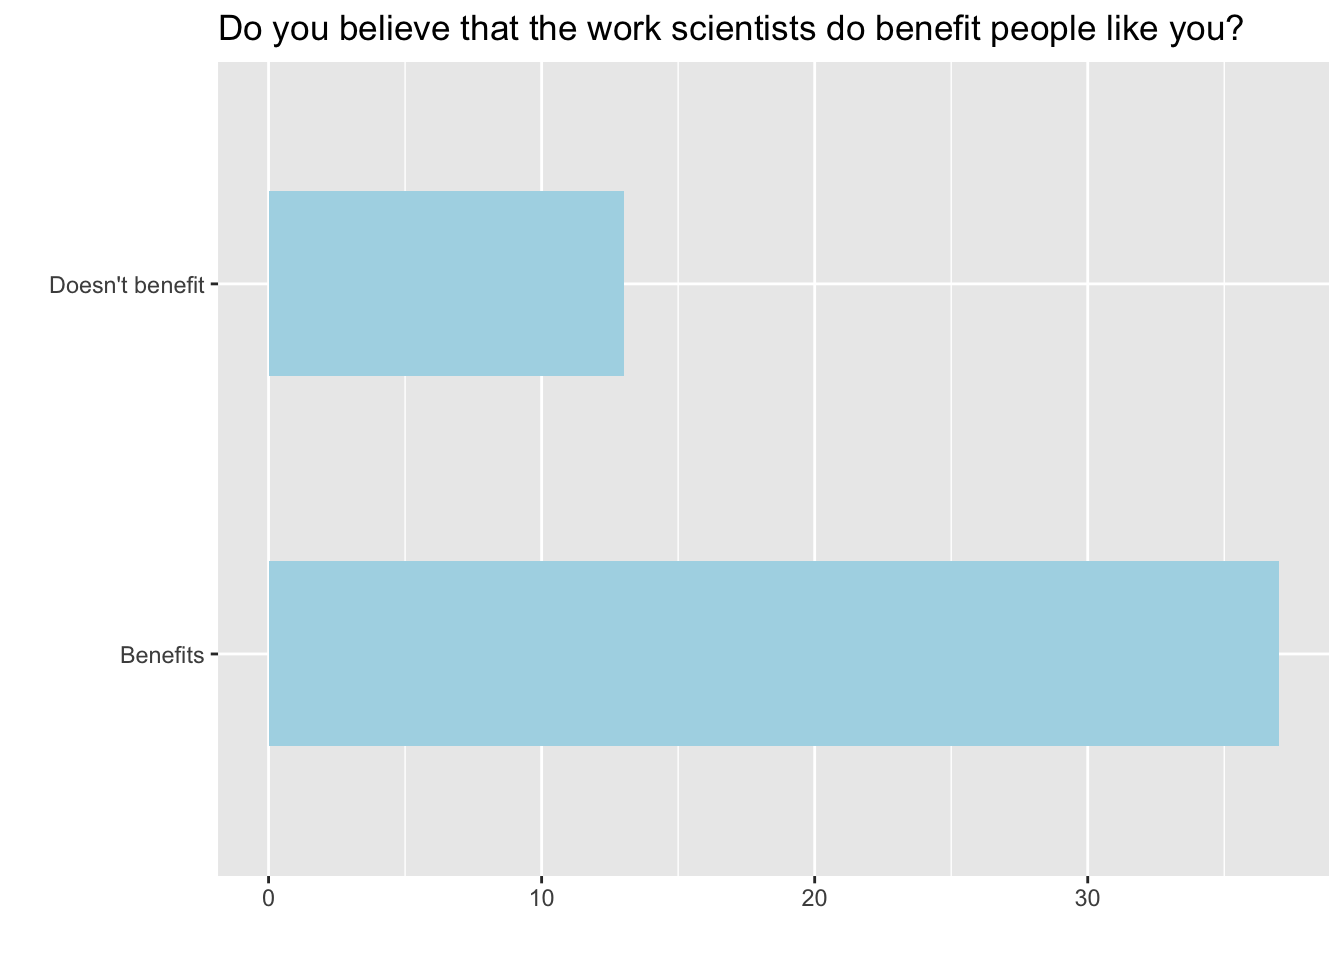
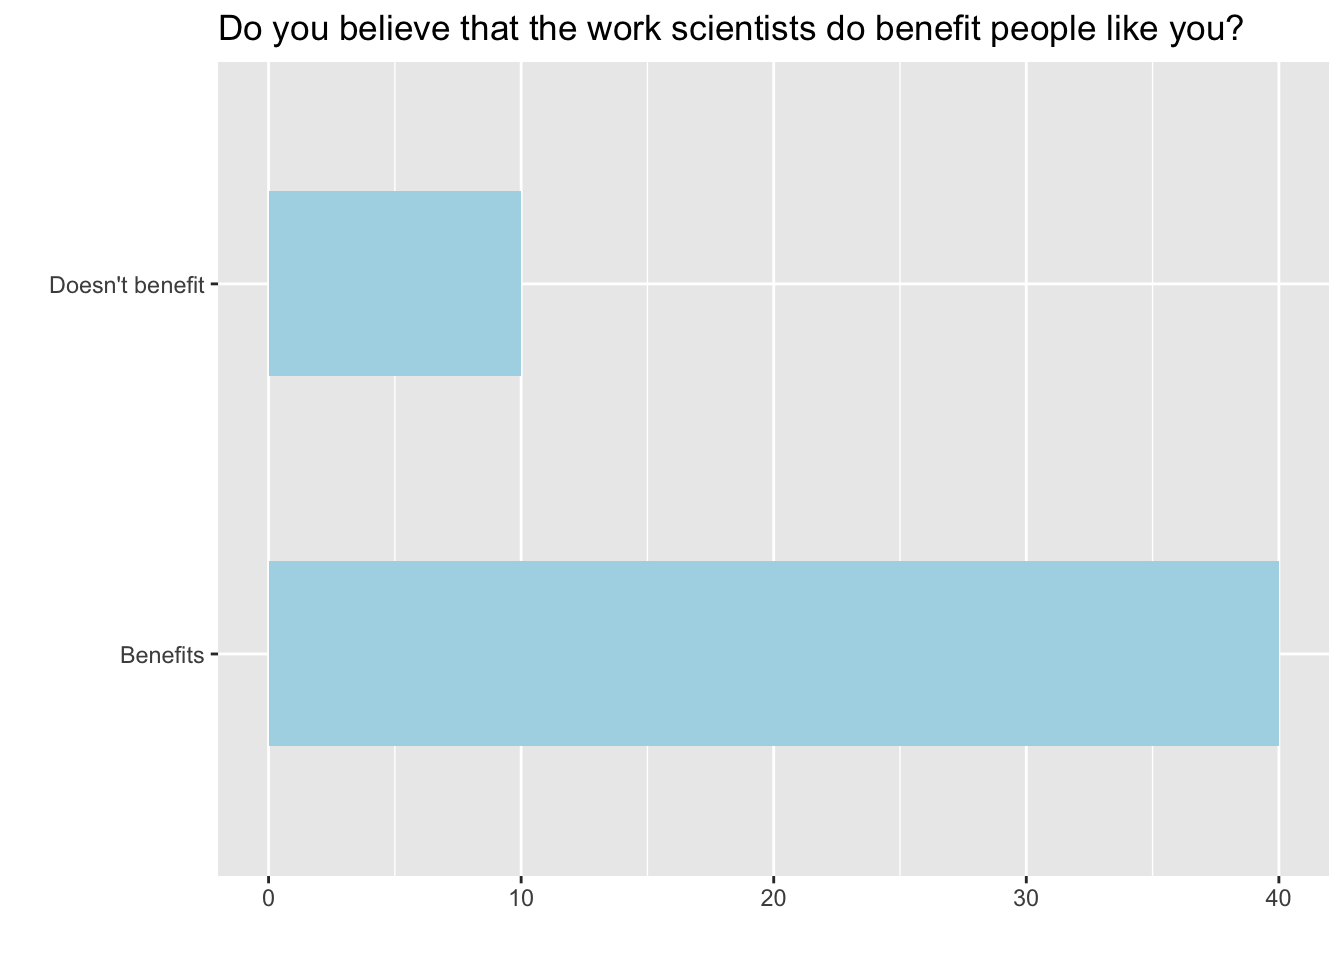
Typo correction

diff --git a/docs/S1YLab4/part-1---sampling-distributions.html b/docs/S1YLab4/part-1---sampling-distributions.html
@@ -220,8 +220,8 @@ We will first create our population assuming a population size of 100,000 (which
 <p>The name of the data frame is <code>global_monitor</code> and the name of the variable that contains responses to the question <em>"Do you believe that the work scientists do benefit people like you?"</em> is <code>scientist_work</code>.</p>
 <p><br></p>
 <p><strong>What would this line of code return? <code>c(rep(x, 1000), rep(y, 500))</code></strong></p>
-<div id="radio_QUHAQOCTPK" class="webex-radiogroup">
-<label><input type="radio" autocomplete="off" name="radio_QUHAQOCTPK" value=""></input> <span>matrix with 1000 rows of x and 500 columns of y</span></label><label><input type="radio" autocomplete="off" name="radio_QUHAQOCTPK" value=""></input> <span>vector of length 1000 all x</span></label><label><input type="radio" autocomplete="off" name="radio_QUHAQOCTPK" value="answer"></input> <span>vector of length 1500 with 1000 values of x and 500 values of y</span></label><label><input type="radio" autocomplete="off" name="radio_QUHAQOCTPK" value=""></input> <span>vector of length 500 all y</span></label>
+<div id="radio_XXRSHHCCMW" class="webex-radiogroup">
+<label><input type="radio" autocomplete="off" name="radio_XXRSHHCCMW" value="answer"></input> <span>vector of length 1500 with 1000 values of x and 500 values of y</span></label><label><input type="radio" autocomplete="off" name="radio_XXRSHHCCMW" value=""></input> <span>vector of length 1000 all x</span></label><label><input type="radio" autocomplete="off" name="radio_XXRSHHCCMW" value=""></input> <span>vector of length 500 all y</span></label><label><input type="radio" autocomplete="off" name="radio_XXRSHHCCMW" value=""></input> <span>matrix with 1000 rows of x and 500 columns of y</span></label>
 </div>
 <div class="webex-solution">
 <button>
@@ -273,8 +273,8 @@ Solution
 <pre><code>## # A tibble: 2 × 3
 ##   scientist_work      n p_hat
 ##   &lt;chr&gt;           &lt;int&gt; &lt;dbl&gt;
-## 1 Benefits           37  0.74
-## 2 Doesn&#39;t benefit    13  0.26</code></pre>
+## 1 Benefits           40   0.8
+## 2 Doesn&#39;t benefit    10   0.2</code></pre>
 <div class="sourceCode" id="cb7"><pre class="sourceCode r"><code class="sourceCode r"><span id="cb7-1"><a href="part-1---sampling-distributions.html#cb7-1" tabindex="-1"></a><span class="fu">ggplot</span>(sample1, <span class="fu">aes</span>(<span class="at">x =</span> scientist_work)) <span class="sc">+</span> </span>
 <span id="cb7-2"><a href="part-1---sampling-distributions.html#cb7-2" tabindex="-1"></a>  <span class="fu">geom_bar</span>(<span class="at">fill =</span> <span class="st">&quot;lightblue&quot;</span>, <span class="at">width =</span> <span class="fl">0.5</span>) <span class="sc">+</span> </span>
 <span id="cb7-3"><a href="part-1---sampling-distributions.html#cb7-3" tabindex="-1"></a>  <span class="fu">labs</span>(<span class="at">x =</span> <span class="st">&quot;&quot;</span>, <span class="at">y =</span> <span class="st">&quot;&quot;</span>, <span class="at">title =</span> <span class="st">&quot;Do you believe that the work scientists do benefit people like you?&quot;</span> ) <span class="sc">+</span></span>
@@ -283,8 +283,8 @@ Solution
 </div>
 <p><br></p>
 <p><strong>Think about how the proportions in your sample compare with the distribution of the population. Would you expect the sample distribution to be?</strong></p>
-<div id="radio_HBULNBLLOS" class="webex-radiogroup">
-<label><input type="radio" autocomplete="off" name="radio_HBULNBLLOS" value="answer"></input> <span>Similar to the population distribution</span></label><label><input type="radio" autocomplete="off" name="radio_HBULNBLLOS" value=""></input> <span>Very different to the population distribution</span></label>
+<div id="radio_ORMCBJEWXO" class="webex-radiogroup">
+<label><input type="radio" autocomplete="off" name="radio_ORMCBJEWXO" value=""></input> <span>Very different to the population distribution</span></label><label><input type="radio" autocomplete="off" name="radio_ORMCBJEWXO" value="answer"></input> <span>Similar to the population distribution</span></label>
 </div>
 <div class="webex-solution">
 <button>
@@ -300,13 +300,13 @@ Hint
 <pre><code>## # A tibble: 2 × 3
 ##   scientist_work      n p_hat
 ##   &lt;chr&gt;           &lt;int&gt; &lt;dbl&gt;
-## 1 Benefits           37  0.74
-## 2 Doesn&#39;t benefit    13  0.26</code></pre>
+## 1 Benefits           40   0.8
+## 2 Doesn&#39;t benefit    10   0.2</code></pre>
 <p>Depending on the 50 people selected, your estimate could be a bit above or a bit below the population proportion of 0.2. In general, though, the sample proportion turns out to be a pretty good estimate of the true population proportion, and you were able to get it by sampling less than 1% of the population, 50 out of 100000.</p>
 <p><br></p>
 <p><strong>Would you expect the sample proportion to match the sample proportion of another student's sample?</strong></p>
-<div id="radio_DRFIIBXJYT" class="webex-radiogroup">
-<label><input type="radio" autocomplete="off" name="radio_DRFIIBXJYT" value="answer"></input> <span>Similar but not necessarily the same</span></label><label><input type="radio" autocomplete="off" name="radio_DRFIIBXJYT" value=""></input> <span>Completely different</span></label><label><input type="radio" autocomplete="off" name="radio_DRFIIBXJYT" value=""></input> <span>Exactly the same</span></label>
+<div id="radio_JJCSVPFRWD" class="webex-radiogroup">
+<label><input type="radio" autocomplete="off" name="radio_JJCSVPFRWD" value="answer"></input> <span>Similar but not necessarily the same</span></label><label><input type="radio" autocomplete="off" name="radio_JJCSVPFRWD" value=""></input> <span>Exactly the same</span></label><label><input type="radio" autocomplete="off" name="radio_JJCSVPFRWD" value=""></input> <span>Completely different</span></label>
 </div>
 <div class="webex-solution">
 <button>
@@ -338,8 +338,8 @@ Solution
 <pre><code>## # A tibble: 2 × 3
 ##   scientist_work      n p_hat
 ##   &lt;chr&gt;           &lt;int&gt; &lt;dbl&gt;
-## 1 Benefits           76  0.76
-## 2 Doesn&#39;t benefit    24  0.24</code></pre>
+## 1 Benefits           85  0.85
+## 2 Doesn&#39;t benefit    15  0.15</code></pre>
 <div class="sourceCode" id="cb12"><pre class="sourceCode r"><code class="sourceCode r"><span id="cb12-1"><a href="part-1---sampling-distributions.html#cb12-1" tabindex="-1"></a>sample3 <span class="ot">&lt;-</span> global_monitor <span class="sc">%&gt;%</span> </span>
 <span id="cb12-2"><a href="part-1---sampling-distributions.html#cb12-2" tabindex="-1"></a>  <span class="fu">sample_n</span>(<span class="dv">1000</span>)</span>
 <span id="cb12-3"><a href="part-1---sampling-distributions.html#cb12-3" tabindex="-1"></a></span>
@@ -349,13 +349,13 @@ Solution
 <pre><code>## # A tibble: 2 × 3
 ##   scientist_work      n p_hat
 ##   &lt;chr&gt;           &lt;int&gt; &lt;dbl&gt;
-## 1 Benefits          801 0.801
-## 2 Doesn&#39;t benefit   199 0.199</code></pre>
+## 1 Benefits          780  0.78
+## 2 Doesn&#39;t benefit   220  0.22</code></pre>
 </div>
 <p><br></p>
 <p><strong>Looking at the new samples, of size 100 and 1000. Which would you think would provide a more precise estimate of the population mean?</strong></p>
-<div id="radio_IABIVLDMJN" class="webex-radiogroup">
-<label><input type="radio" autocomplete="off" name="radio_IABIVLDMJN" value=""></input> <span>Sample size 50</span></label><label><input type="radio" autocomplete="off" name="radio_IABIVLDMJN" value=""></input> <span>Sample size 100</span></label><label><input type="radio" autocomplete="off" name="radio_IABIVLDMJN" value="answer"></input> <span>Sample size 1000</span></label>
+<div id="radio_WVNAERHWTP" class="webex-radiogroup">
+<label><input type="radio" autocomplete="off" name="radio_WVNAERHWTP" value=""></input> <span>Sample size 50</span></label><label><input type="radio" autocomplete="off" name="radio_WVNAERHWTP" value=""></input> <span>Sample size 100</span></label><label><input type="radio" autocomplete="off" name="radio_WVNAERHWTP" value="answer"></input> <span>Sample size 1000</span></label>
 </div>
 <div class="webex-solution">
 <button>
@@ -387,8 +387,8 @@ Hint
 <span id="cb14-12"><a href="part-1---sampling-distributions.html#cb14-12" tabindex="-1"></a>       <span class="at">subtitle =</span> <span class="st">&quot;Sample size = 50, Number of samples = 15000&quot;</span>)</span></code></pre></div>
 <p>If you would like to adjust the bin width of your histogram to show a little more detail, you can do so by changing the <code>binwidth</code> argument in <code>geom_histogram</code>.</p>
 <p><strong>What distribution does the shape of the histogram most resemble?</strong></p>
-<div id="radio_KNVDYZKFPL" class="webex-radiogroup">
-<label><input type="radio" autocomplete="off" name="radio_KNVDYZKFPL" value="answer"></input> <span>Normal</span></label><label><input type="radio" autocomplete="off" name="radio_KNVDYZKFPL" value=""></input> <span>Binomial</span></label><label><input type="radio" autocomplete="off" name="radio_KNVDYZKFPL" value=""></input> <span>Geometric</span></label><label><input type="radio" autocomplete="off" name="radio_KNVDYZKFPL" value=""></input> <span>Poisson</span></label>
+<div id="radio_CNVVPRJOSF" class="webex-radiogroup">
+<label><input type="radio" autocomplete="off" name="radio_CNVVPRJOSF" value=""></input> <span>Poisson</span></label><label><input type="radio" autocomplete="off" name="radio_CNVVPRJOSF" value=""></input> <span>Geometric</span></label><label><input type="radio" autocomplete="off" name="radio_CNVVPRJOSF" value=""></input> <span>Binomial</span></label><label><input type="radio" autocomplete="off" name="radio_CNVVPRJOSF" value="answer"></input> <span>Normal</span></label>
 </div>
 <div class="webex-solution">
 <button>
@@ -414,8 +414,8 @@ Hint
 <span id="cb15-11"><a href="part-1---sampling-distributions.html#cb15-11" tabindex="-1"></a>       <span class="at">subtitle =</span> <span class="st">&quot;Sample size = 50&quot;</span>)</span></code></pre></div>
 <p><br></p>
 <p><strong>Would you expect the distribution to significantly change if 50,000 samples were collected?</strong></p>
-<div id="radio_WHVMRMDQUG" class="webex-radiogroup">
-<label><input type="radio" autocomplete="off" name="radio_WHVMRMDQUG" value=""></input> <span>Yes</span></label><label><input type="radio" autocomplete="off" name="radio_WHVMRMDQUG" value="answer"></input> <span>No</span></label>
+<div id="radio_YOWYHWQUZI" class="webex-radiogroup">
+<label><input type="radio" autocomplete="off" name="radio_YOWYHWQUZI" value=""></input> <span>Yes</span></label><label><input type="radio" autocomplete="off" name="radio_YOWYHWQUZI" value="answer"></input> <span>No</span></label>
 </div>
 <div class="webex-solution">
 <button>
@@ -492,8 +492,8 @@ Solution
 </div>
 <p><br></p>
 <p><strong>When the sample size is larger, what happens to the center?</strong></p>
-<div id="radio_UOYZCMLVRJ" class="webex-radiogroup">
-<label><input type="radio" autocomplete="off" name="radio_UOYZCMLVRJ" value=""></input> <span>Increases</span></label><label><input type="radio" autocomplete="off" name="radio_UOYZCMLVRJ" value=""></input> <span>Decreases</span></label><label><input type="radio" autocomplete="off" name="radio_UOYZCMLVRJ" value="answer"></input> <span>Stays constant</span></label>
+<div id="radio_JXEUNPCUAC" class="webex-radiogroup">
+<label><input type="radio" autocomplete="off" name="radio_JXEUNPCUAC" value=""></input> <span>Increases</span></label><label><input type="radio" autocomplete="off" name="radio_JXEUNPCUAC" value=""></input> <span>Decreases</span></label><label><input type="radio" autocomplete="off" name="radio_JXEUNPCUAC" value="answer"></input> <span>Stays constant</span></label>
 </div>
 <div class="webex-solution">
 <button>
@@ -503,8 +503,8 @@ Hint
 </div>
 <p><br></p>
 <p><strong>When the sample size is larger, what happens to the spread?</strong></p>
-<div id="radio_FIPCUUUJEC" class="webex-radiogroup">
-<label><input type="radio" autocomplete="off" name="radio_FIPCUUUJEC" value=""></input> <span>Increases</span></label><label><input type="radio" autocomplete="off" name="radio_FIPCUUUJEC" value="answer"></input> <span>Decreases</span></label><label><input type="radio" autocomplete="off" name="radio_FIPCUUUJEC" value=""></input> <span>Stays constant</span></label>
+<div id="radio_JBXYJGVPOL" class="webex-radiogroup">
+<label><input type="radio" autocomplete="off" name="radio_JBXYJGVPOL" value=""></input> <span>Increases</span></label><label><input type="radio" autocomplete="off" name="radio_JBXYJGVPOL" value="answer"></input> <span>Decreases</span></label><label><input type="radio" autocomplete="off" name="radio_JBXYJGVPOL" value=""></input> <span>Stays constant</span></label>
 </div>
 <div class="webex-solution">
 <button>

diff --git a/docs/S1YLab4/part-2---confidence-intervals.html b/docs/S1YLab4/part-2---confidence-intervals.html
@@ -271,13 +271,13 @@ Solution
 <pre><code>## # A tibble: 2 × 3
 ##   climate_change_affects     n p_hat
 ##   &lt;chr&gt;                  &lt;int&gt; &lt;dbl&gt;
-## 1 No                        22 0.367
-## 2 Yes                       38 0.633</code></pre>
+## 1 No                        25 0.417
+## 2 Yes                       35 0.583</code></pre>
 </div>
 <p><br></p>
 <strong>What would you expect another student's proportion to be?</strong>
-<div id="radio_OVSHDSJWNQ" class="webex-radiogroup">
-<label><input type="radio" autocomplete="off" name="radio_OVSHDSJWNQ" value="answer"></input> <span>Slightly similar</span></label><label><input type="radio" autocomplete="off" name="radio_OVSHDSJWNQ" value=""></input> <span>Very different</span></label><label><input type="radio" autocomplete="off" name="radio_OVSHDSJWNQ" value=""></input> <span>Identical</span></label>
+<div id="radio_BOCPJZRCFW" class="webex-radiogroup">
+<label><input type="radio" autocomplete="off" name="radio_BOCPJZRCFW" value=""></input> <span>Very different</span></label><label><input type="radio" autocomplete="off" name="radio_BOCPJZRCFW" value=""></input> <span>Identical</span></label><label><input type="radio" autocomplete="off" name="radio_BOCPJZRCFW" value="answer"></input> <span>Slightly similar</span></label>
 </div>
 <div class="webex-solution">
 <button>
@@ -302,14 +302,14 @@ Hint
 <p>However, some conditions need to be made for the confidence interval to be valid.</p>
 <p><br></p>
 <strong>What conditions must be met for this confidence to be valid?</strong>
-<div id="radio_SUWWJJRJCD" class="webex-radiogroup">
-<label><input type="radio" autocomplete="off" name="radio_SUWWJJRJCD" value="answer"></input> <span>Independence assumption is valid</span></label><label><input type="radio" autocomplete="off" name="radio_SUWWJJRJCD" value=""></input> <span>Data comes from a binomial distribution</span></label><label><input type="radio" autocomplete="off" name="radio_SUWWJJRJCD" value=""></input> <span>The distribution is skewed but it is allowed with a small sample size</span></label>
+<div id="radio_LNBIJTKHIO" class="webex-radiogroup">
+<label><input type="radio" autocomplete="off" name="radio_LNBIJTKHIO" value=""></input> <span>Data comes from a binomial distribution</span></label><label><input type="radio" autocomplete="off" name="radio_LNBIJTKHIO" value="answer"></input> <span>Independence assumption is valid</span></label><label><input type="radio" autocomplete="off" name="radio_LNBIJTKHIO" value=""></input> <span>The distribution is skewed but it is allowed with a small sample size</span></label>
 </div>
-<div id="radio_ZKDKYDFZLM" class="webex-radiogroup">
-<label><input type="radio" autocomplete="off" name="radio_ZKDKYDFZLM" value="answer"></input> <span>Data comes from a normal distribution</span></label>
+<div id="radio_YVFAUMWHQF" class="webex-radiogroup">
+<label><input type="radio" autocomplete="off" name="radio_YVFAUMWHQF" value="answer"></input> <span>Data comes from a normal distribution</span></label>
 </div>
-<div id="radio_THGPPNJUYF" class="webex-radiogroup">
-<label><input type="radio" autocomplete="off" name="radio_THGPPNJUYF" value="answer"></input> <span>The disribution is skewed but it is allowed with a large sample size</span></label>
+<div id="radio_LUZZAFABMI" class="webex-radiogroup">
+<label><input type="radio" autocomplete="off" name="radio_LUZZAFABMI" value="answer"></input> <span>The disribution is skewed but it is allowed with a large sample size</span></label>
 </div>
 <div class="webex-solution">
 <button>
@@ -340,8 +340,8 @@ Hint
 <span id="cb26-14"><a href="part-2---confidence-intervals.html#cb26-14" tabindex="-1"></a>ci</span></code></pre></div>
 <p><br></p>
 <strong>If you were to repeat this simulation again and again, would each confidence interval capture the true population proportion of US adults who think climate change affects their local community?</strong>
-<div id="radio_LJXDZZQEVL" class="webex-radiogroup">
-<label><input type="radio" autocomplete="off" name="radio_LJXDZZQEVL" value=""></input> <span>No, each certainly wouldn't</span></label><label><input type="radio" autocomplete="off" name="radio_LJXDZZQEVL" value=""></input> <span>Yes, each certainly would</span></label><label><input type="radio" autocomplete="off" name="radio_LJXDZZQEVL" value="answer"></input> <span>Each would with 95% confidence</span></label>
+<div id="radio_ZSEMZVSYSH" class="webex-radiogroup">
+<label><input type="radio" autocomplete="off" name="radio_ZSEMZVSYSH" value=""></input> <span>Yes, each certainly would</span></label><label><input type="radio" autocomplete="off" name="radio_ZSEMZVSYSH" value=""></input> <span>No, each certainly wouldn't</span></label><label><input type="radio" autocomplete="off" name="radio_ZSEMZVSYSH" value="answer"></input> <span>Each would with 95% confidence</span></label>
 </div>
 <div class="webex-solution">
 <button>
@@ -353,8 +353,8 @@ Hint
 <p>If we were to collect all the confidence intervals produced in the console above by all the students in S1Y, each student should have produced a slightly different confidence interval because they were each based on different random samples.</p>
 <p><br></p>
 <strong>What proportion of those intervals would you expect to capture the true population mean?</strong>
-<div id="radio_GGZGWYRIOI" class="webex-radiogroup">
-<label><input type="radio" autocomplete="off" name="radio_GGZGWYRIOI" value="answer"></input> <span>95%</span></label><label><input type="radio" autocomplete="off" name="radio_GGZGWYRIOI" value=""></input> <span>5%</span></label><label><input type="radio" autocomplete="off" name="radio_GGZGWYRIOI" value=""></input> <span>2.5%</span></label>
+<div id="radio_LYBORZPDJK" class="webex-radiogroup">
+<label><input type="radio" autocomplete="off" name="radio_LYBORZPDJK" value=""></input> <span>2.5%</span></label><label><input type="radio" autocomplete="off" name="radio_LYBORZPDJK" value=""></input> <span>5%</span></label><label><input type="radio" autocomplete="off" name="radio_LYBORZPDJK" value="answer"></input> <span>95%</span></label>
 </div>
 <div class="webex-solution">
 <button>
@@ -395,8 +395,8 @@ Hint
 <span id="cb27-26"><a href="part-2---confidence-intervals.html#cb27-26" tabindex="-1"></a><span class="fu">c</span>(<span class="st">&quot;99% CI&quot;</span>, <span class="fu">paste</span>(<span class="fu">round</span>(ci,<span class="dv">3</span>)))</span></code></pre></div>
 <p><br></p>
 <strong>Which interval would you expect to be wider?</strong>
-<div id="radio_SRFEQDRITM" class="webex-radiogroup">
-<label><input type="radio" autocomplete="off" name="radio_SRFEQDRITM" value="answer"></input> <span>Interval with a larger confidence level</span></label><label><input type="radio" autocomplete="off" name="radio_SRFEQDRITM" value=""></input> <span>Interval with a larger sample size</span></label>
+<div id="radio_EUTJQQLPNW" class="webex-radiogroup">
+<label><input type="radio" autocomplete="off" name="radio_EUTJQQLPNW" value="answer"></input> <span>Interval with a larger confidence level</span></label><label><input type="radio" autocomplete="off" name="radio_EUTJQQLPNW" value=""></input> <span>Interval with a larger sample size</span></label>
 </div>
 <div class="webex-solution">
 <button>

diff --git a/docs/S1YLab4/group-tasks.html b/docs/S1YLab4/group-tasks.html
@@ -228,7 +228,7 @@ code span.wa { color: #60a0b0; font-weight: bold; font-style: italic; } /* Warni
 <div id="confidence-intervals" class="section level2 unnumbered hasAnchor">
 <h2>Confidence Intervals<a href="group-tasks.html#confidence-intervals" class="anchor-section" aria-label="Anchor link to header"></a></h2>
 <p><br></p>
-<p><strong>For a confidence level of 90%, what is the appropriate critical value? (e.g. <span class="math inline">\(z^*\)</span></strong> <em>(to 2 decimal places)</em>
+<p><strong>For a confidence level of 90%, what is the appropriate critical value? (e.g. <span class="math inline">\(z^*\)</span>)</strong> <em>(to 2 decimal places)</em>
 <input class='webex-solveme nospaces' size='4' data-answer='["1.64"]'/></p>
 <p><br></p>
 <div id="task-3" class="section level3 unnumbered hasAnchor">
